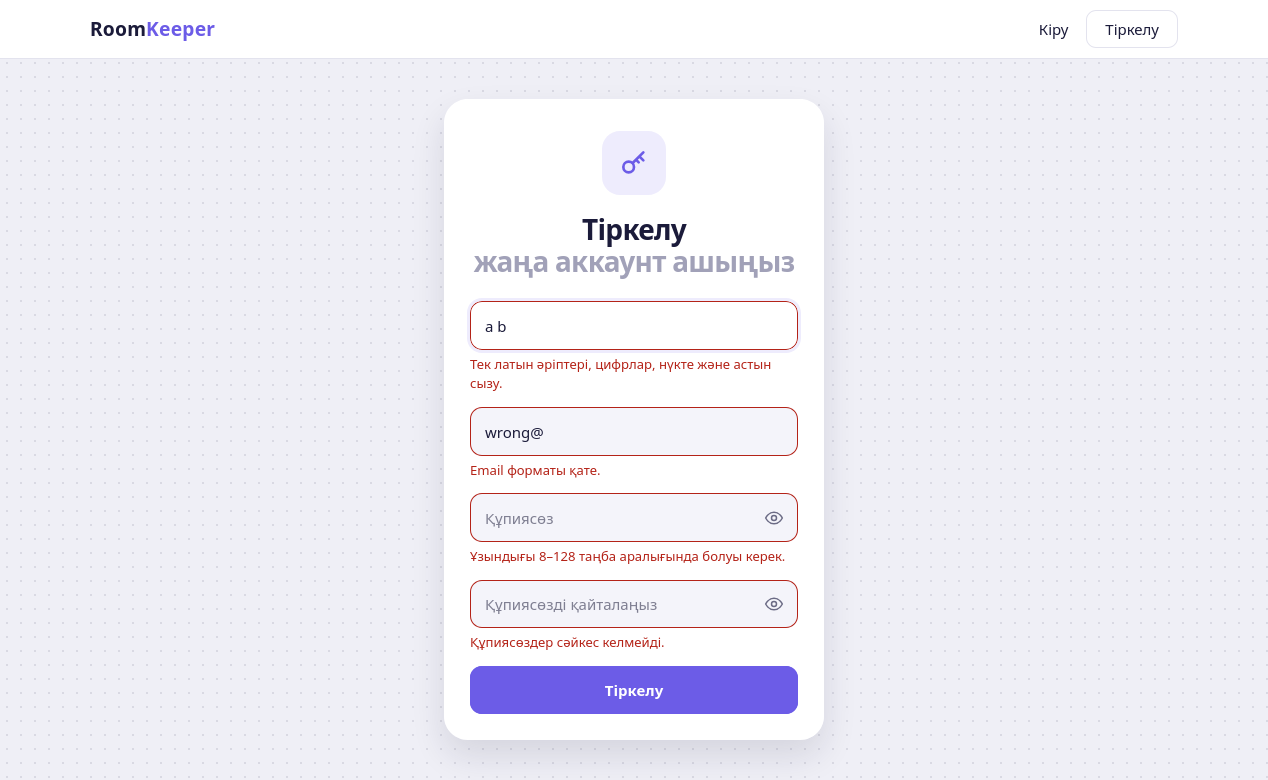
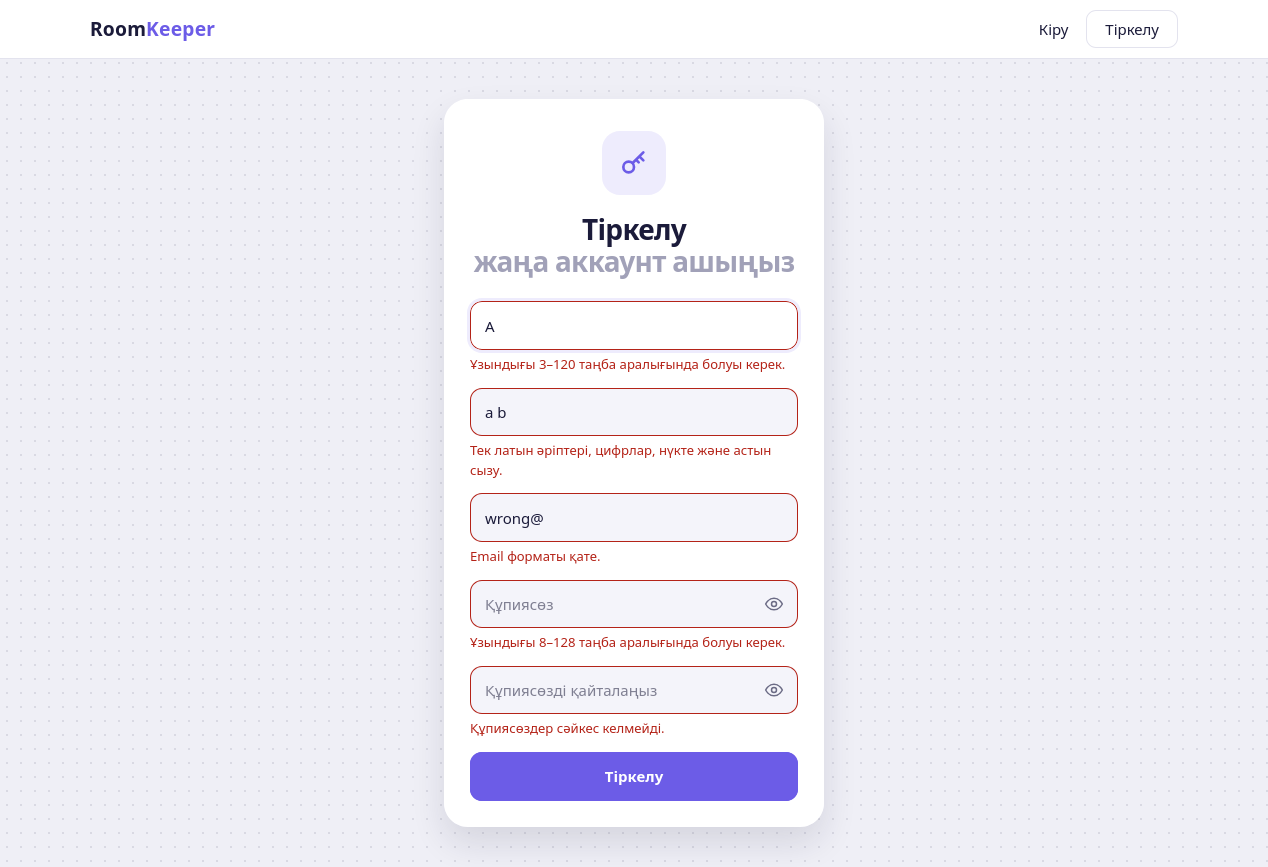
Student Status Fix

diff --git a/server/app/templates/students/list.html b/server/app/templates/students/list.html
@@ -48,7 +48,7 @@
           {% for student in page.items %}
             <tr>
               <td><a href="{{ url_for('students.detail', student_id=student.id) }}">{{ student.full_name }}</a></td>
-              <td>{{ student.course }}</td>
+              <td>{{ student.course or '—' }}</td>
               <td>
                 {% if student.room %}
                   <a href="{{ url_for('rooms.detail', room_id=student.room.id) }}">№{{ student.room.number }}</a>
@@ -56,7 +56,7 @@
                   <span class="muted">—</span>
                 {% endif %}
               </td>
-              <td>{{ student.phone }}</td>
+              <td>{{ student.phone or '—' }}</td>
               <td>{{ student.email }}</td>
               <td>{{ student.created_at|date }}</td>
               <td class="actions">

diff --git a/server/app/templates/auth/register.html b/server/app/templates/auth/register.html
@@ -8,7 +8,8 @@
 {% endblock %}
 
 {% block fields %}
-  {{ ui.field(form.username, compact=true, autofocus=true, autocomplete="username") }}
+  {{ ui.field(form.full_name, compact=true, autofocus=true, autocomplete="name") }}
+  {{ ui.field(form.username, compact=true, autocomplete="username") }}
   {{ ui.field(form.email, compact=true, type="email", autocomplete="email") }}
   {{ ui.field(form.password, compact=true, autocomplete="new-password") }}
   {{ ui.field(form.confirm, compact=true, autocomplete="new-password") }}

diff --git a/server/app/templates/rooms/detail.html b/server/app/templates/rooms/detail.html
@@ -52,8 +52,8 @@
           {% for student in room.students %}
             <tr>
               <td><a href="{{ url_for('students.detail', student_id=student.id) }}">{{ student.full_name }}</a></td>
-              <td>{{ student.course }}</td>
-              <td>{{ student.phone }}</td>
+              <td>{{ student.course or '—' }}</td>
+              <td>{{ student.phone or '—' }}</td>
               <td>{{ student.email }}</td>
             </tr>
           {% endfor %}

diff --git a/server/app/templates/main/profile.html b/server/app/templates/main/profile.html
@@ -24,8 +24,8 @@
     {% if student %}
       <dl class="details">
         <dt>Студент</dt><dd>{{ student.full_name }}</dd>
-        <dt>Курс</dt><dd>{{ student.course }}</dd>
-        <dt>Телефон</dt><dd>{{ student.phone }}</dd>
+        <dt>Курс</dt><dd>{{ student.course or '—' }}</dd>
+        <dt>Телефон</dt><dd>{{ student.phone or '—' }}</dd>
         <dt>Бөлме</dt>
         <dd>
           {% if student.room %}

diff --git a/server/app/templates/students/detail.html b/server/app/templates/students/detail.html
@@ -15,8 +15,8 @@
 <section class="card">
   <dl class="details">
     <dt>Email</dt><dd>{{ student.email }}</dd>
-    <dt>Телефон</dt><dd>{{ student.phone }}</dd>
-    <dt>Курс</dt><dd>{{ student.course }}</dd>
+    <dt>Телефон</dt><dd>{{ student.phone or '—' }}</dd>
+    <dt>Курс</dt><dd>{{ student.course or '—' }}</dd>
     <dt>Бөлме</dt>
     <dd>
       {% if student.room %}

diff --git a/server/tests/test_auth.py b/server/tests/test_auth.py
@@ -2,12 +2,13 @@ import pytest
 from sqlalchemy import select
 
 from app import db
-from app.models import ROLE_USER, User
-from tests.conftest import PASSWORD, TestConfig
+from app.models import ROLE_USER, Student, User
+from tests.conftest import PASSWORD, TestConfig, login
 
 
 def register(client, **overrides):
     data = {
+        "full_name": "Жаңа Студент",
         "username": "newuser",
         "email": "new@example.com",
         "password": PASSWORD,
@@ -26,7 +27,7 @@ def test_anonymous_is_redirected_to_login(client):
 def test_auth_pages_are_minimal(client):
     for path, fields in (
         ("/auth/login", ("login", "password")),
-        ("/auth/register", ("username", "email", "password", "confirm")),
+        ("/auth/register", ("full_name", "username", "email", "password", "confirm")),
     ):
         html = client.get(path).get_data(as_text=True)
 
@@ -63,9 +64,51 @@ def test_register_creates_plain_user(app, client):
         assert user.check_password(PASSWORD)
 
 
+def test_registered_account_is_a_student_straight_away(app, client):
+    register(client)
+
+    with app.app_context():
+        student = db.session.scalar(select(Student))
+        assert (student.full_name, student.email) == ("Жаңа Студент", "new@example.com")
+        assert student.user.username == "newuser"
+        assert (student.phone, student.course, student.room_id) == (None, None, None)
+
+    login(client, "newuser")
+    profile = client.get("/profile").get_data(as_text=True)
+    assert "Жаңа Студент" in profile
+    assert "байланыстырылмаған" not in profile
+
+
+def test_register_claims_the_record_an_admin_already_entered(app, client, make):
+    room_id = make.room(number="204")
+    student_id = make.student(name="Admin Spelling", room_id=room_id)  # student1@example.com
+
+    register(client, email="Student1@Example.com", full_name="Own Spelling")
+
+    with app.app_context():
+        assert db.session.scalar(select(db.func.count(Student.id))) == 1
+        student = db.session.get(Student, student_id)
+        assert student.user.username == "newuser"
+        assert (student.full_name, student.room_id) == ("Admin Spelling", room_id)
+
+
+def test_register_cannot_take_over_a_student_who_has_an_account(app, client, make):
+    owner = make.user("owner")
+    make.student(name="Owned", user_id=owner)  # student1@example.com
+
+    response = register(client, email="student1@example.com")
+
+    assert "Бұл email тіркелген" in response.get_data(as_text=True)
+    with app.app_context():
+        assert db.session.scalar(select(User).where(User.username == "newuser")) is None
+        assert db.session.scalar(select(Student)).user_id == owner
+
+
 @pytest.mark.parametrize(
     "overrides, message",
     [
+        ({"full_name": "Аб"}, "3–120 таңба"),
+        ({"full_name": ""}, "Бұл өрісті толтыру міндетті"),
         ({"username": "ab"}, "3–32 таңба"),
         ({"username": "bad name!"}, "Тек латын әріптері"),
         ({"email": "not-an-email"}, "Email форматы қате"),
@@ -80,6 +123,7 @@ def test_register_validation(app, client, overrides, message):
     assert message in response.get_data(as_text=True)
     with app.app_context():
         assert db.session.scalar(select(User)) is None
+        assert db.session.scalar(select(Student)) is None
 
 
 def test_register_rejects_taken_username_and_email(client, make):

diff --git a/server/app/forms.py b/server/app/forms.py
@@ -108,6 +108,7 @@ class LoginForm(BaseForm):
 
 
 class RegisterForm(BaseForm):
+    full_name = StringField("Аты-жөні", [required(), length(3, 120)], filters=[strip])
     username = StringField(
         "Логин",
         [
@@ -136,6 +137,13 @@ class RegisterForm(BaseForm):
         "Құпиясөзді қайталаңыз",
         [required(), EqualTo("password", "Құпиясөздер сәйкес келмейді.")],
     )
+
+    def validate_email(self, field):
+        # A student record without an account is claimed on sign-up; one
+        # that already belongs to somebody is not up for grabs.
+        student = Student.find_by_email(field.data or "")
+        if student is not None and student.user_id is not None:
+            raise ValidationError("Бұл email тіркелген.")
 
 
 class RoomForm(BaseForm):
@@ -178,7 +186,7 @@ class StudentForm(BaseForm):
     phone = StringField(
         "Телефон",
         [
-            required(),
+            Optional(),
             Regexp(
                 r"^\+?[0-9]{10,15}$",
                 message="Телефон 10–15 цифрдан тұруы керек, мысалы +77011234567.",
@@ -186,7 +194,7 @@ class StudentForm(BaseForm):
         ],
         filters=[strip, compact_phone],
     )
-    course = IntegerField("Курс", [required(), number_range(1, 6)])
+    course = IntegerField("Курс", [Optional(), number_range(1, 6)])
     room_id = SelectField("Бөлме", coerce=int)
     user_id = SelectField("Пайдаланушы аккаунты", coerce=int)
 

diff --git a/server/app/models.py b/server/app/models.py
@@ -77,8 +77,10 @@ class Student(db.Model):
     id = db.Column(db.Integer, primary_key=True)
     full_name = db.Column(db.String(120), nullable=False, index=True)
     email = db.Column(db.String(120), unique=True, nullable=False)
-    phone = db.Column(db.String(20), nullable=False)
-    course = db.Column(db.Integer, nullable=False)
+    # Unknown for students who signed up themselves, until an admin
+    # fills them in.
+    phone = db.Column(db.String(20))
+    course = db.Column(db.Integer)
     room_id = db.Column(
         db.Integer, db.ForeignKey("rooms.id", ondelete="SET NULL"), index=True
     )
@@ -95,6 +97,27 @@ class Student(db.Model):
         cascade="all, delete-orphan",
         order_by="Contract.start_date.desc()",
     )
+
+    @classmethod
+    def find_by_email(cls, email):
+        return db.session.scalar(
+            select(cls).where(func.lower(cls.email) == email.lower())
+        )
+
+    @classmethod
+    def link_account(cls, user, full_name):
+        """Give a newly registered account its student record.
+
+        A record an admin already entered under the same email is reused
+        (and keeps the admin's spelling of the name); otherwise a new one
+        is created.
+        """
+        student = cls.find_by_email(user.email)
+        if student is None:
+            student = cls(full_name=full_name, email=user.email)
+            db.session.add(student)
+        student.user = user
+        return student
 
     def to_dict(self):
         return {

diff --git a/server/app/cli.py b/server/app/cli.py
@@ -8,10 +8,7 @@ from app import db
 from app.models import ROLE_ADMIN, Contract, Room, Student, User
 
 DEMO_ADMIN = ("admin", "admin@roomkeeper.kz", "Admin123!")
-DEMO_USERS = [
-    ("miras", "miras@roomkeeper.kz", "User123!"),
-    ("daulet", "daulet@roomkeeper.kz", "User123!"),
-]
+DEMO_USER = ("miras", "miras@roomkeeper.kz", "User123!")
 # Monthly price by room capacity.
 DEMO_PRICES = {2: Decimal("35000"), 3: Decimal("28000"), 4: Decimal("22000")}
 DEMO_UNASSIGNED = 4
@@ -48,12 +45,9 @@ DEMO_STUDENTS = [
 def create_demo_data():
     admin = User(username=DEMO_ADMIN[0], email=DEMO_ADMIN[1], role=ROLE_ADMIN)
     admin.set_password(DEMO_ADMIN[2])
-    users = [admin]
-    for username, email, password in DEMO_USERS:
-        user = User(username=username, email=email)
-        user.set_password(password)
-        users.append(user)
-    db.session.add_all(users)
+    demo_user = User(username=DEMO_USER[0], email=DEMO_USER[1])
+    demo_user.set_password(DEMO_USER[2])
+    db.session.add_all([admin, demo_user])
 
     rooms = []
     for floor in (1, 2, 3):
@@ -91,7 +85,7 @@ def create_demo_data():
             phone=f"+7701{1000000 + index * 7919:07d}",
             course=1 + index % 4,
             room=room,
-            user=users[1] if index == 0 else None,
+            user=demo_user if index == 0 else None,
         )
         db.session.add(student)
         if room is None:

diff --git a/server/migrations/versions/21ca46c53f9f_student_phone_and_course_optional.py b/server/migrations/versions/21ca46c53f9f_student_phone_and_course_optional.py
@@ -1,0 +1,42 @@
+"""student phone and course optional
+
+Revision ID: 21ca46c53f9f
+Revises: 265c8d51b46b
+Create Date: 2026-10-08 02:43:02.540433
+
+"""
+from alembic import op
+import sqlalchemy as sa
+
+
+# revision identifiers, used by Alembic.
+revision = '21ca46c53f9f'
+down_revision = '265c8d51b46b'
+branch_labels = None
+depends_on = None
+
+
+def upgrade():
+    # ### commands auto generated by Alembic - please adjust! ###
+    with op.batch_alter_table('students', schema=None) as batch_op:
+        batch_op.alter_column('phone',
+               existing_type=sa.VARCHAR(length=20),
+               nullable=True)
+        batch_op.alter_column('course',
+               existing_type=sa.INTEGER(),
+               nullable=True)
+
+    # ### end Alembic commands ###
+
+
+def downgrade():
+    # ### commands auto generated by Alembic - please adjust! ###
+    with op.batch_alter_table('students', schema=None) as batch_op:
+        batch_op.alter_column('course',
+               existing_type=sa.INTEGER(),
+               nullable=False)
+        batch_op.alter_column('phone',
+               existing_type=sa.VARCHAR(length=20),
+               nullable=False)
+
+    # ### end Alembic commands ###

diff --git a/server/tests/test_students.py b/server/tests/test_students.py
@@ -66,6 +66,20 @@ def test_student_validation(app, admin_client, overrides, message):
         assert db.session.scalar(select(Student)) is None
 
 
+def test_phone_and_course_are_optional(app, admin_client):
+    response = admin_client.post("/students/new", data=form_data(phone="", course=""))
+    assert response.status_code == 302
+
+    with app.app_context():
+        student = db.session.scalar(select(Student))
+        assert (student.phone, student.course) == (None, None)
+        student_id = student.id
+
+    # Pages that list the student cope with the missing values.
+    for path in ("/students/", f"/students/{student_id}", f"/students/{student_id}/edit"):
+        assert admin_client.get(path).status_code == 200
+
+
 def test_student_cannot_be_put_into_full_room(app, admin_client, make):
     room_id = make.room(capacity=1)
     resident = make.student(room_id=room_id)

diff --git a/server/app/auth/routes.py b/server/app/auth/routes.py
@@ -4,7 +4,7 @@ from flask_login import current_user, login_required, login_user, logout_user
 from app import db
 from app.auth import bp
 from app.forms import LoginForm, RegisterForm
-from app.models import User
+from app.models import Student, User
 from app.utils import safe_next_url
 
 
@@ -34,6 +34,7 @@ def register():
         user = User(username=form.username.data, email=form.email.data)
         user.set_password(form.password.data)
         db.session.add(user)
+        Student.link_account(user, form.full_name.data)
         db.session.commit()
         flash("Тіркелу сәтті өтті. Енді жүйеге кіріңіз.", "success")
         return redirect(url_for("auth.login"))
